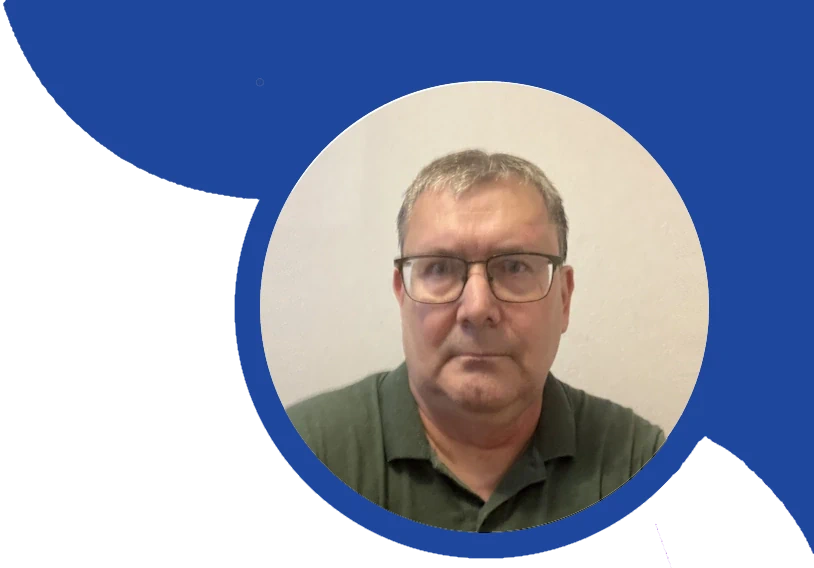
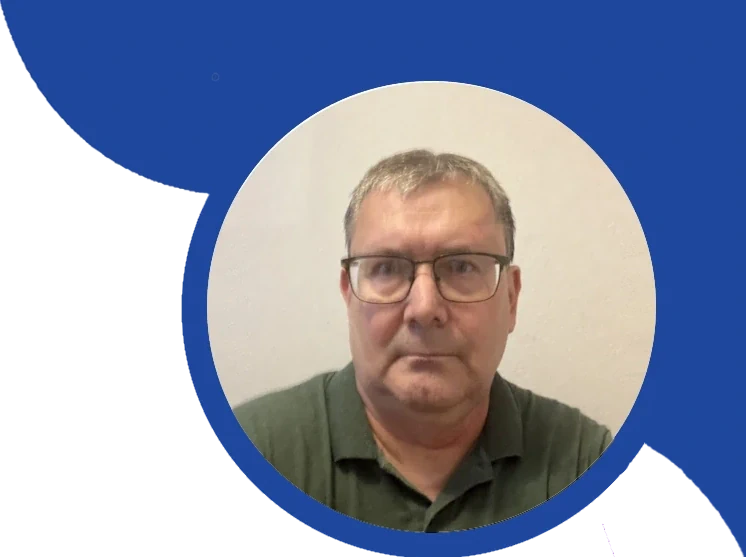
GR4

diff --git a/index.html b/index.html
@@ -8,8 +8,8 @@
    <body>
       <header>
          <img src="./images/cv-no-bg.webp" class="cv-image">
-         <img src="./images/goran-blå-ram.webp" class="desktop person-image">
-         <img src="./images/goran-blå-ram-mini.webp" class="mobile person-image">
+         <img src="./images/goran-blå-ram.webp" class="person-image-desktop">
+         <img src="./images/goran-blå-ram-mini.webp" class="person-image-mobile">
          <div class="contactInfoDesktop">
             <h3>Göran Rosenberg</h3>
             <p>Västergatan 44A</p>
@@ -25,8 +25,8 @@
             <h3>Göran Rosenberg</h3>
             <p>Västergatan 44A</p>
             <p>273 34 Tomelilla</p>
-            <p>Epost: goran.rosenberg@tomelilla.nu</p>
-            <p>Mobil: 073-123456</p>
+            <p>Epost: goran.rosenberg@xxxxx.nu</p>
+            <p>Mobil: 073-12345678</p>
          </div>
 
          <div class="left-column">
@@ -56,14 +56,26 @@
             <p>Visual Studi0 2026</p>
             <p>Visual Studio Code</p>
             <p>Wordpress och wooCommerce</p>
+
+            <div class="ovrigtDesktop">
+               <hr/>
+               <h3>ÖVRIGT</h3>
+               <p><strong>Språkkunskaper:</strong> Svenska modersmål. Engelska goda kunskaper. Tyska baskunskaper.</p>
+               <p><strong>Körkort:</strong> B-behörighet och egen bil.</p>
+               <p><strong>Militärtjänstgöring:</strong> P6 i Kristianstad. 1988-06 – 1989-04</p>
+               <p><strong>Referenser:</strong> Lämnas på begäran.</p>
+               <p><strong>LinkedIn profil:</strong> https://www.linkedin.com/in/göran-rosenberg-2731381b/</p>
+               <p><strong>Personliga uppgifter:</strong> Jag bor i en bostadsrätt i Tomelilla. Jag är ordförande i bostadsrättsföreningen</p>
             </div>
+        </div>
 
          <div class="right-column">
             <h3>UTBILDNING</h3>
             <div class="utbildning">
+               <hr style="margin-top: 10px;">
                <div><h4>LinkedIn kurs:</h4><span>2026-02-06 - 2026-02-13</span></div>
                <p>HTML Forms: Accessibility. Kurs om WCAG.</p>
-               <hr>
+               <hr ">
                <div><h4>LinkedIn kurs:</h4><span>2026-02-02 - 2026-02-05</span></div>
                <p>Web Accessibility for Developers. Kurs om WCAG.</p>
                <hr>
@@ -111,6 +123,70 @@
                <hr>
                <div><h4>Gymnasieutbildning:</h4><span>1984-08 – 1988-06</span>
                <p>4-årig teknisk linje, maskinteknisk gren.</p>
+            </div>
+         </div>
+         <div>
+            <br/>
+            <h3>ANSTÄLLNINGAR och PROJEKT</h3>
+            <div class="anstallningar">   
+               <hr style="margin-top: 10px;">
+               <div><h4>Webbutvecklare, Änglar & Drakar, Sjöbo</h4><span>2024-11</span></div>		                                                   
+               <p>Ett projekt där jag jag utvecklade en webshop baserad på wordpress och woocommerce.</p>
+               <hr>
+               <div><h4 class="special">Webbadministratör, Friska Hem Sverige AB, Helsingborg</h4><span class="special">2022-09 – 2023-10</span></div>	               
+               <p>
+                  Vidareutveckling och underhåll av en Shopify webshop (html, css, liquid). Marknadsföring som tex 
+                  Google Ads och mailutskick, kundsupport.
+               </p>
+               <hr>
+               <div><h4>Webshopsutvecklare, Sattwa Herbs AB, Ystad</h4><span>  2019-11 – 2022-04</span></div>        	                                        
+               <p>
+                  Vidareutveckling av  webshop (html, css, och javascript). Orderhantering, marknadsföring framförallt 
+                  Facebook Ads, mailutskick i Mailchimp och utveckling av Sattwa Herbs affärskoncept. 
+               </p>
+               <hr>
+               <div><h4>Webbutvecklare, Marknadslab Interaktion, Ystad</h4><span>2015-09 – 2019-06</span></div>
+               <p>
+                  Jag var med och utvecklade flera webbapplikationer i angularJS, javacript/jQuery, html, css, 
+                  php, och mysql. Arbetet bestod av design, frontend- och backendutveckling samt kundsupport. 
+                  Jag har även gjort en del utveckling i wordpress bland annat en wooCommerce webshop. 
+               </p>
+               <hr>
+               <div><h4>Webshopsutvecklare, Sattwa Herbs AB,  Ystad</h4><span>2014-09   –   2014-12</span>
+               <p>Jag vidareutvecklade en wooCommerce/wordpress webshop och ett diagnossystem kopplat till webshopen.</p>
+               <hr>
+               <div><h4 class="special">Webbutvecklare, Alfa Fakturaservice AB, Stockholm, Deltid</h4><span class="special">2013-02 – 2013-07</span></div>
+               <p>
+                  Jag arbetade på timbasis med bland annat vidareutveckling av fakturasystemet jag var med och utvecklade hos 
+                  MFK Ekonomi AB (MFK gick i konkurs i nov. 2012).  Jobbat ca 40 timmar per månad.
+               </p>
+               <hr>
+               <div><h4>Webbutvecklare, MFK Ekonomi AB, Malmö</h4><span>2010-04 – 2012-11</span></div>
+               <p>
+                  Mina huvudsakliga arbetsuppgifter bestod av utveckling och underhåll av ett webbaserat faktureringssystem. 
+                  Systemet är utvecklat i ASP.NET och C# och databasen är en sql-server 2008. 
+               </p>
+               <hr>
+               <div><h4>Webbutvecklare, Presis i Lund AB, Lund</h4><span>2009-06 – 2010-01</span>
+               <p>
+                  Jag deltog i utvecklingen av ett webbaserat biljettförsäljningssystem till handbollsklubben 
+                  LUGI i Lund. Systemet utvecklades i C#, ASP.NET och sql-server 2008. 
+               </p>
+            </div>
+            
+            <br/>
+            <h3>TIDIGARE ANSTÄLLNINGAR</h3>
+            <p>Tidigare har jag haft anställningar som maskinoperatör, Livsmedelsarbetare och två anställningar som maskinkonstruktör.</p>           
+         
+            <div class="ovrigtTablet">
+               <br/>
+               <h3>ÖVRIGT</h3>
+               <p><strong>Språkkunskaper:</strong> Svenska modersmål. Engelska goda kunskaper. Tyska baskunskaper.</p>
+               <p><strong>Körkort:</strong> B-behörighet och egen bil.</p>
+               <p><strong>Militärtjänstgöring:</strong> P6 i Kristianstad. 1988-06   –   1989-04</p>
+               <p><strong>Referenser:</strong> Lämnas på begäran.</p>
+               <p><strong>LinkedIn profil:</strong> https://www.linkedin.com/in/göran-rosenberg-2731381b/</p>
+               <p><strong>Personliga uppgifter:</strong> Jag bor i en bostadsrätt i Tomelilla. Jag är ordförande i bostadsrättsföreningen.</p>
             </div>
          </div>
       </div>

diff --git a/main.css b/main.css
@@ -36,6 +36,12 @@ header {
    margin: 10px 0 10px 0;
 }
 
+.left-column hr {
+     margin-top: 22px;
+   margin-bottom: 22px;
+
+}
+
 .right-column {
    padding: 0 15px 30px 30px;
    float: left;
@@ -43,22 +49,45 @@ header {
    width: 600px;
 }
 
-.utbildning div {
+.utbildning div, .anstallningar div {
    margin-top: 15px;
 }
 
-.utbildning h4 {
+.utbildning h4, .anstallningar h4 {
    font-size: 18px;
    display: inline;
 }
 
-.utbildning span {
+.utbildning span, .anstallningar span {
    float: right;
 }
 
-.utbildning p {
+.utbildning p, .anstallningar p {
    clear: both;
-  
+}
+
+.utbildning hr, .anstallningar hr {
+   margin-top: 22px;
+   margin-bottom: 22px;
+}
+
+
+.anstallningar span.special {
+   float: left;
+   margin-bottom: 6px;                                   
+}
+
+.anstallningar h4.special{
+   display: block;   
+   margin-bottom: 8px;                                   
+}
+
+.ovrigtDesktop p, .ovrigtTablet p {
+   margin: 8px 0 8px 0;
+}
+
+.ovrigtTablet {
+   display: none;
 }
 
 .cv-image {
@@ -68,15 +97,20 @@ header {
    float: left;
 }
 
-.person-image {
-   width: 300px;
+.person-image-desktop {
+   width: 275px;
    height: auto;
    float: right;
 }
 
+.person-image-mobile {
+   display: none;
+}
+
+
 .contactInfoDesktop {
    max-width: 300px;
-   margin: 20px -40px 0 60px;
+   margin: 20px 0 0 80px;
    float: left;
 }
 
@@ -87,6 +121,7 @@ header {
 h3 {
    font-size: 22px;
    margin-bottom: 8px; 
+   color: #1E479D;
 }
 
 p {
@@ -98,6 +133,16 @@ p {
 @media screen and (max-width: 1010px) { 
    .right-column {
       width: 490px;
+   }
+
+   .anstallningar span {
+      float: left;
+      margin-bottom: 6px;                                   
+   }
+
+   .anstallningar h4 {
+      display: block;   
+      margin-bottom: 8px;                                   
    }
 }
 
@@ -115,18 +160,13 @@ p {
    }
 
    .contactInfoDesktop {
-      margin: 20px 30px 0 40px;
-   }
-
-   .person-image {
-      margin: 30px 30px 0 0;
-      max-width: 160px;
+      margin: 20px -40px 0 40px;
    }
 }
 
 
 @media screen and (max-width: 800px) { 
-   .contactInfoDesktop {
+   .contactInfoDesktop, .ovrigtDesktop {
        display: none;
    }
 
@@ -134,6 +174,10 @@ p {
        width: 100%;
        display: block;
        margin: 0 0 20px 30px;
+   }
+
+   .ovrigtTablet {
+      display: block;
    }
 
    .main-column {
@@ -153,11 +197,27 @@ p {
    .goals {
       max-width: 600px;
       padding-right: 50px;
-      padding-bottom: 10px;
+      padding-bottom: 0;
+   }
+
+    .cv-image {
+       margin-right: 15px; 
    }
 }
 
+@media screen and (max-width: 570px) { 
 
+   .person-image-desktop {
+      display: none;
+   }
+
+   .person-image-mobile {
+      display: block;
+      margin: 30px 30px 0 0;
+      max-width: 160px;
+      height: auto;
+      float: right;
+   }
 
 @media screen and (max-width: 450px) { 
    header {
@@ -167,7 +227,7 @@ p {
    .cv-image {
       width: 150px;  
    }
-   .person-image {
+   .person-image-mobile {
       width: 110px;
    }
 
